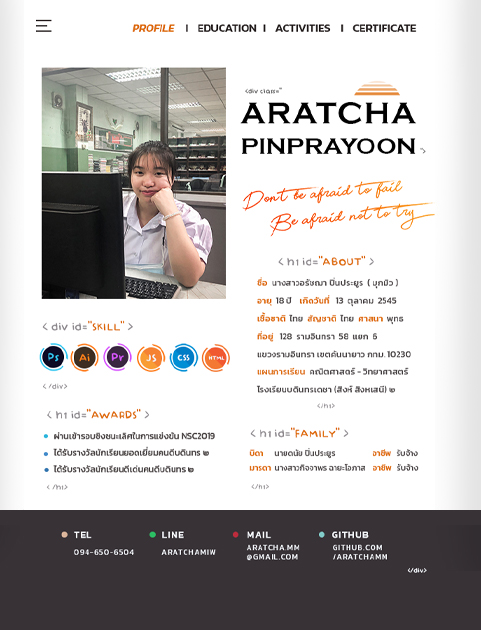
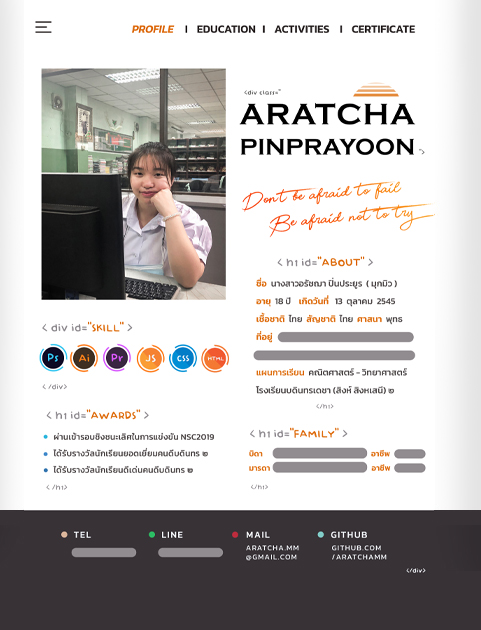
sensors

diff --git a/about.html b/about.html
@@ -285,7 +285,7 @@
         
           
           <ul class="contact-list">
-            <li id="contactname" class="list-item"><a href="tel:1-212-555-5555" title="Give me a call">(+66) 94-650-6504 </a></li>
+            <li id="contactname" class="list-item"><a href="tel:+66xxxxxxx" title="Give me a call">(+66) XX-XXX-XXXX </a></li>
             
             <li id="contactname" class="list-item"><a href="mailto:aratcha.mm@gmail.com" title="Send me an email">aratcha.mm@gmail.com</a></li>
   

diff --git a/index.html b/index.html
@@ -367,7 +367,7 @@
                 <div class="icon">
                 <a href="https://github.com/aratchamm"><img id="github" src="img/github.png">
                 <a href="mailto:aratcha.mm@gmail.com"><img id="mail" src="img/gmail.png">
-                  <a href="tel:+66946506504"><img id="phone" src="img/phone.png">
+                  <a href="tel:+66xxxxxxx"><img id="phone" src="img/phone.png">
             </div>
             </div>
           </div>
